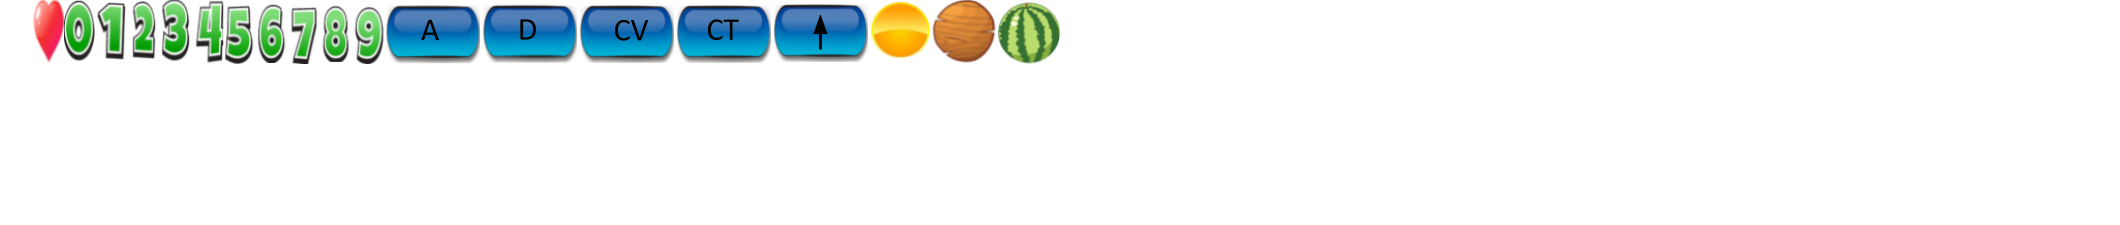
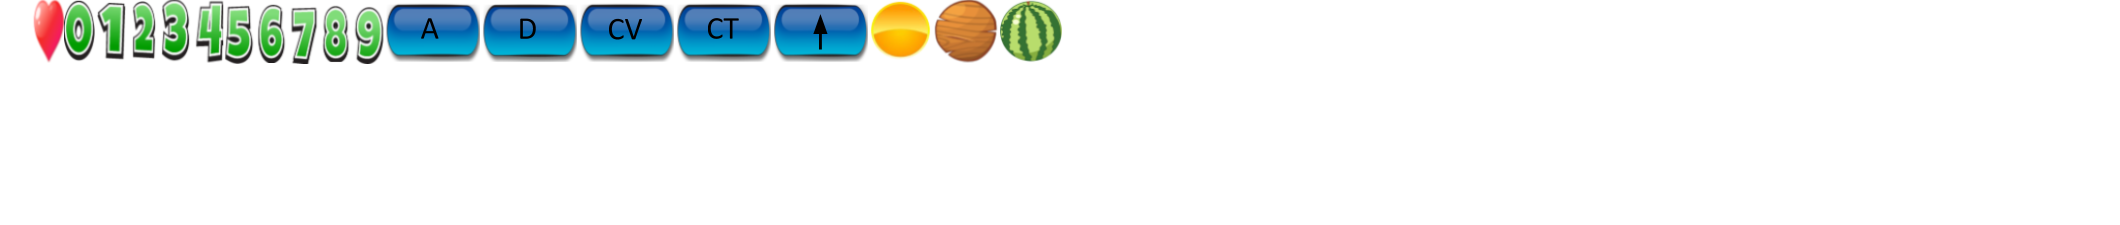
IAHEURI

diff --git a/src/shared/ai/RandomAI.cpp b/src/shared/ai/RandomAI.cpp
@@ -85,89 +85,11 @@ void RandomAI::run (engine::Engine& engine, Observable& principalMap, int& count
       engine.addCommand(unique_ptr<Command> (new PrintStats(x,y,element)),3);
       usleep(2000000);
 
-    // si c'est une caserne
-
-    if (buildingChoice==2){
-      // on choisit une commande parmi ()
-      switch (rand() % 5){
-        case 0:{
-            // on prend des positions autour de caserne et on tire au sort une qui a de l'herbe
-          std::vector<int> positions={y,(x+1),y+1,(x+1),y+1,x,y+1,(x-1),y,(x-1)};
-          int pos=0;
-          while (principalMap.getAllMaps().getMapMatrix()[positions[pos+1]][positions[pos]]!=2 && pos<10){
-            pos +=2;
-          }
-          int y2= positions[pos];
-          int x2=positions[pos+1];
-
-
-          engine.addCommand((unique_ptr<Command> (new CreateUnit(x,y,x2,y2,1))),4);
-          counter++;
-          break;
-        }
-        case 1:{
-          std::vector<int> positions={y,(x+1),y+1,(x+1),y+1,x,y+1,(x-1),y,(x-1)};
-          int pos=0;
-          while (principalMap.getAllMaps().getMapMatrix()[positions[pos+1]][positions[pos]]!=2 && pos<10){
-            pos +=2;
-          }
-          int y2= positions[pos];
-          int x2=positions[pos+1];
-
-          engine.addCommand((unique_ptr<Command> (new CreateUnit(x,y,x2,y2,2))),4);
-          counter++;
-          break;
-        }
-        case 2:{
-          std::vector<int> positions={y,(x+1),y+1,(x+1),y+1,x,y+1,(x-1),y,(x-1)};
-          int pos=0;
-          while (principalMap.getAllMaps().getMapMatrix()[positions[pos+1]][positions[pos]]!=2 && pos<10){
-            pos +=2;
-          }
-          int y2= positions[pos];
-          int x2=positions[pos+1];
-
-          engine.addCommand((unique_ptr<Command> (new CreateUnit(x,y,x2,y2,3))),4);
-          counter++;
-          break;
-        }
-        case 3:{
-          std::vector<int> positions {y,(x+1),y+1,(x+1),y+1,x,y+1,(x-1),y,(x-1)};
-          int pos=0;
-          while (principalMap.getAllMaps().getMapMatrix()[positions[pos+1]][positions[pos]]!=2 && pos<10){
-            pos +=2;
-          }
-          int y2= positions[pos];
-          int x2=positions[pos+1];
-
-          engine.addCommand((unique_ptr<Command> (new CreateUnit(x,y,x2,y2,4))),4);
-          counter++;
-          break;
-        }
-        case 4:
-          engine.addCommand((unique_ptr<Command> (new LevelUp(x,y))),5);
-          counter++;
-          break;
-          default:
-          break;
-        }
-        // si hdv ou ressource on levelUp
-      } else{
-        engine.addCommand((unique_ptr<Command> (new LevelUp(x,y))),5);
-        counter++;
-      }
-    } else{
-      int element=principalMap.getAllMaps().getMapMatrix()[x][y];
-      engine.addCommand((unique_ptr<Command> (new CaseIdentifier(x,y))),1);
-      engine.addCommand(unique_ptr<Command> (new Possibilities(x,y,element)),2);
-      engine.addCommand(unique_ptr<Command> (new PrintStats(x,y,element)),3);
-      usleep(2000000);
-
       // si c'est une caserne
 
       if (buildingChoice==2){
         // on choisit une commande parmi ()
-        switch (rand() % 4){
+        switch (rand() % 5){
           case 0:{
               // on prend des positions autour de caserne et on tire au sort une qui a de l'herbe
             std::vector<int> positions={y,(x+1),y+1,(x+1),y+1,x,y+1,(x-1),y,(x-1)};
@@ -177,6 +99,7 @@ void RandomAI::run (engine::Engine& engine, Observable& principalMap, int& count
             }
             int y2= positions[pos];
             int x2=positions[pos+1];
+
 
             engine.addCommand((unique_ptr<Command> (new CreateUnit(x,y,x2,y2,1))),4);
             counter++;
@@ -190,6 +113,7 @@ void RandomAI::run (engine::Engine& engine, Observable& principalMap, int& count
             }
             int y2= positions[pos];
             int x2=positions[pos+1];
+
             engine.addCommand((unique_ptr<Command> (new CreateUnit(x,y,x2,y2,2))),4);
             counter++;
             break;
@@ -202,6 +126,7 @@ void RandomAI::run (engine::Engine& engine, Observable& principalMap, int& count
             }
             int y2= positions[pos];
             int x2=positions[pos+1];
+
             engine.addCommand((unique_ptr<Command> (new CreateUnit(x,y,x2,y2,3))),4);
             counter++;
             break;
@@ -214,17 +139,92 @@ void RandomAI::run (engine::Engine& engine, Observable& principalMap, int& count
             }
             int y2= positions[pos];
             int x2=positions[pos+1];
+
             engine.addCommand((unique_ptr<Command> (new CreateUnit(x,y,x2,y2,4))),4);
             counter++;
             break;
           }
-          default:
-          break;
+          case 4:
+            engine.addCommand((unique_ptr<Command> (new LevelUp(x,y))),5);
+            counter++;
+            break;
+            default:
+            break;
+          }
+          // si hdv ou ressource on levelUp
+        } else{
+          engine.addCommand((unique_ptr<Command> (new LevelUp(x,y))),5);
+          counter++;
         }
-        // si hdv ou ressource on levelUp
-      }
+      } else{
+        int element=principalMap.getAllMaps().getMapMatrix()[x][y];
+        engine.addCommand((unique_ptr<Command> (new CaseIdentifier(x,y))),1);
+        engine.addCommand(unique_ptr<Command> (new Possibilities(x,y,element)),2);
+        engine.addCommand(unique_ptr<Command> (new PrintStats(x,y,element)),3);
+        usleep(2000000);
 
-    }
+        // si c'est une caserne
+
+        if (buildingChoice==2){
+          // on choisit une commande parmi ()
+          switch (rand() % 4){
+            case 0:{
+                // on prend des positions autour de caserne et on tire au sort une qui a de l'herbe
+              std::vector<int> positions={y,(x+1),y+1,(x+1),y+1,x,y+1,(x-1),y,(x-1)};
+              int pos=0;
+              while (principalMap.getAllMaps().getMapMatrix()[positions[pos+1]][positions[pos]]!=2 && pos<10){
+                pos +=2;
+              }
+              int y2= positions[pos];
+              int x2=positions[pos+1];
+
+              engine.addCommand((unique_ptr<Command> (new CreateUnit(x,y,x2,y2,1))),4);
+              counter++;
+              break;
+            }
+            case 1:{
+              std::vector<int> positions={y,(x+1),y+1,(x+1),y+1,x,y+1,(x-1),y,(x-1)};
+              int pos=0;
+              while (principalMap.getAllMaps().getMapMatrix()[positions[pos+1]][positions[pos]]!=2 && pos<10){
+                pos +=2;
+              }
+              int y2= positions[pos];
+              int x2=positions[pos+1];
+              engine.addCommand((unique_ptr<Command> (new CreateUnit(x,y,x2,y2,2))),4);
+              counter++;
+              break;
+            }
+            case 2:{
+              std::vector<int> positions={y,(x+1),y+1,(x+1),y+1,x,y+1,(x-1),y,(x-1)};
+              int pos=0;
+              while (principalMap.getAllMaps().getMapMatrix()[positions[pos+1]][positions[pos]]!=2 && pos<10){
+                pos +=2;
+              }
+              int y2= positions[pos];
+              int x2=positions[pos+1];
+              engine.addCommand((unique_ptr<Command> (new CreateUnit(x,y,x2,y2,3))),4);
+              counter++;
+              break;
+            }
+            case 3:{
+              std::vector<int> positions {y,(x+1),y+1,(x+1),y+1,x,y+1,(x-1),y,(x-1)};
+              int pos=0;
+              while (principalMap.getAllMaps().getMapMatrix()[positions[pos+1]][positions[pos]]!=2 && pos<10){
+                pos +=2;
+              }
+              int y2= positions[pos];
+              int x2=positions[pos+1];
+              engine.addCommand((unique_ptr<Command> (new CreateUnit(x,y,x2,y2,4))),4);
+              counter++;
+              break;
+            }
+            default:
+            break;
+          }
+          // si hdv ou ressource on levelUp
+        }
+
+      }
  // si unités
     } else {
     // choix de l'unité

diff --git a/src/client/render/StatsTileSet.cpp b/src/client/render/StatsTileSet.cpp
@@ -25,7 +25,7 @@ StatsTileSet::StatsTileSet (){
 
 
 const std::string StatsTileSet::getImageFile () const{
-   const std::string file="res/stats.png";
+   const std::string file="res/stats2.png";
    return file;
 
 }
